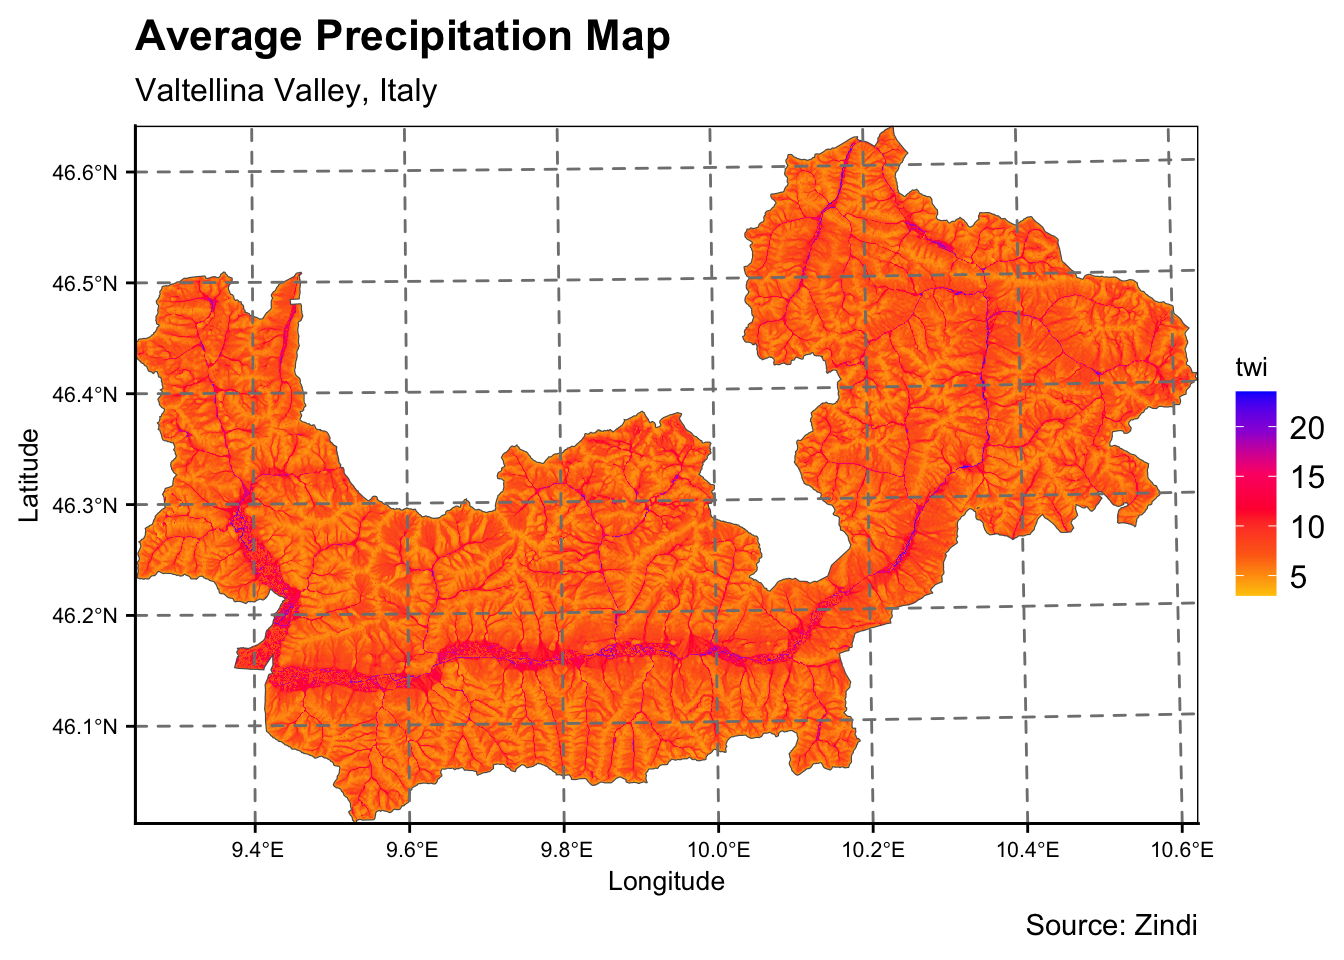
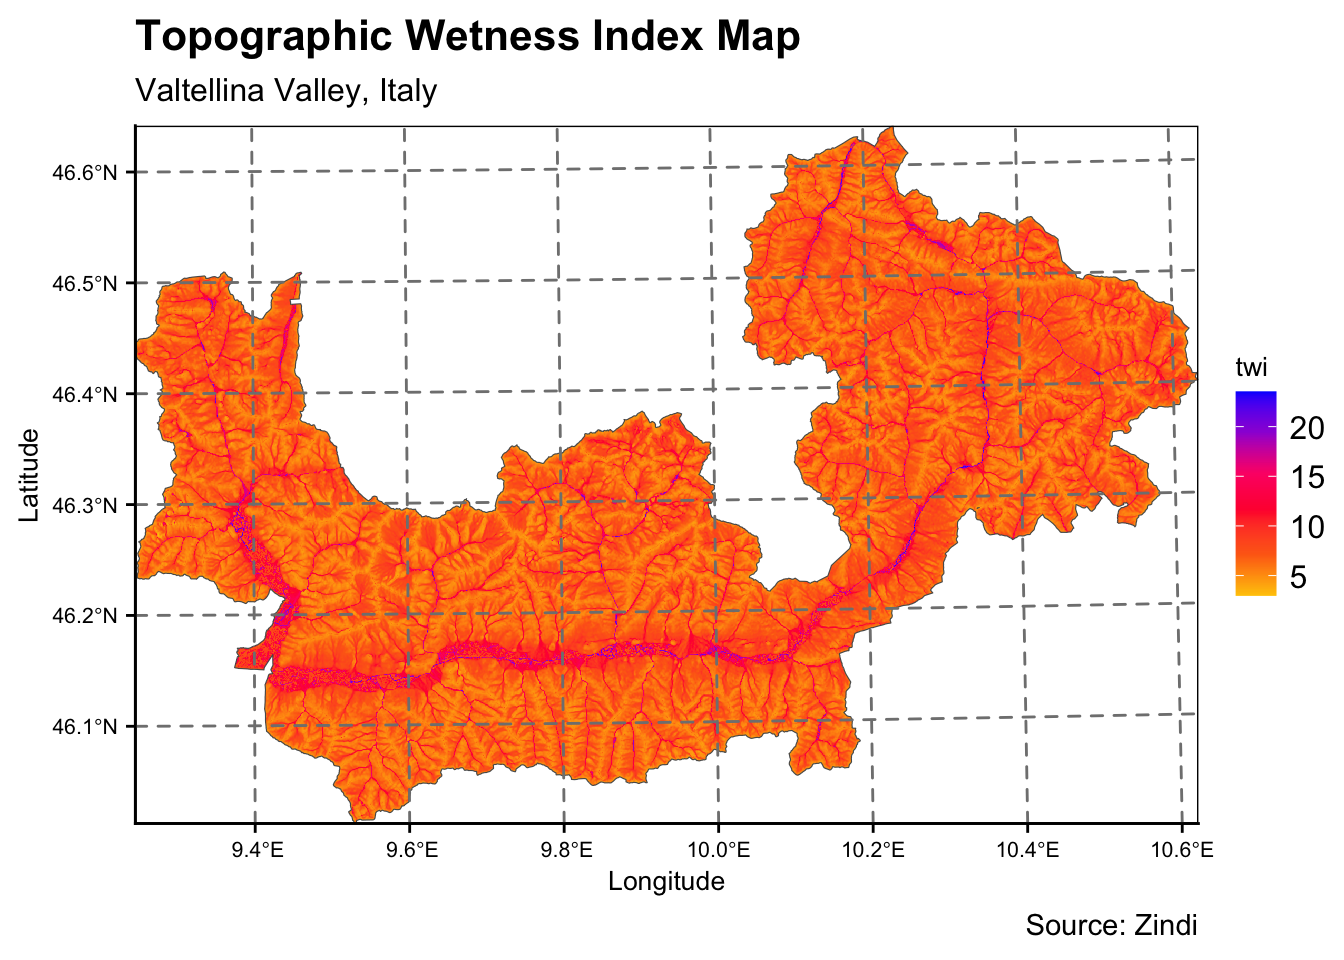
added topographic wetness index map

Changed region(s): [[0.0938, 0.0, 0.5938, 0.0625]]

diff --git a/_site/project.html b/_site/project.html
@@ -364,7 +364,7 @@ pre > code.sourceCode > span > a:first-child::before { text-decoration: underlin
 <span id="cb10-4"><a href="#cb10-4" aria-hidden="true" tabindex="-1"></a>  <span class="fu">scale_fill_gradientn</span>(<span class="st">'twi'</span>, <span class="at">colours=</span><span class="fu">c</span>(<span class="st">"#ffc803"</span>,<span class="st">"#fe6b15"</span>,<span class="st">"#ff2a36"</span>,<span class="st">"#fd0275"</span>,<span class="st">"#9d00d7"</span>,<span class="st">"#0000fe"</span>))<span class="sc">+</span></span>
 <span id="cb10-5"><a href="#cb10-5" aria-hidden="true" tabindex="-1"></a>  <span class="fu">coord_sf</span>(<span class="at">expand=</span><span class="cn">FALSE</span>)<span class="sc">+</span></span>
 <span id="cb10-6"><a href="#cb10-6" aria-hidden="true" tabindex="-1"></a>  <span class="fu">labs</span>(<span class="at">x=</span><span class="st">'Longitude'</span>,<span class="at">y=</span><span class="st">'Latitude'</span>,</span>
-<span id="cb10-7"><a href="#cb10-7" aria-hidden="true" tabindex="-1"></a>       <span class="at">title=</span><span class="st">"Average Precipitation Map"</span>,</span>
+<span id="cb10-7"><a href="#cb10-7" aria-hidden="true" tabindex="-1"></a>       <span class="at">title=</span><span class="st">"Topographic Wetness Index Map"</span>,</span>
 <span id="cb10-8"><a href="#cb10-8" aria-hidden="true" tabindex="-1"></a>       <span class="at">subtitle=</span><span class="st">'Valtellina Valley, Italy'</span>,</span>
 <span id="cb10-9"><a href="#cb10-9" aria-hidden="true" tabindex="-1"></a>       <span class="at">caption=</span><span class="st">'Source: Zindi'</span>) <span class="sc">+</span></span>
 <span id="cb10-10"><a href="#cb10-10" aria-hidden="true" tabindex="-1"></a>  cowplot<span class="sc">::</span><span class="fu">theme_cowplot</span>()<span class="sc">+</span></span>
